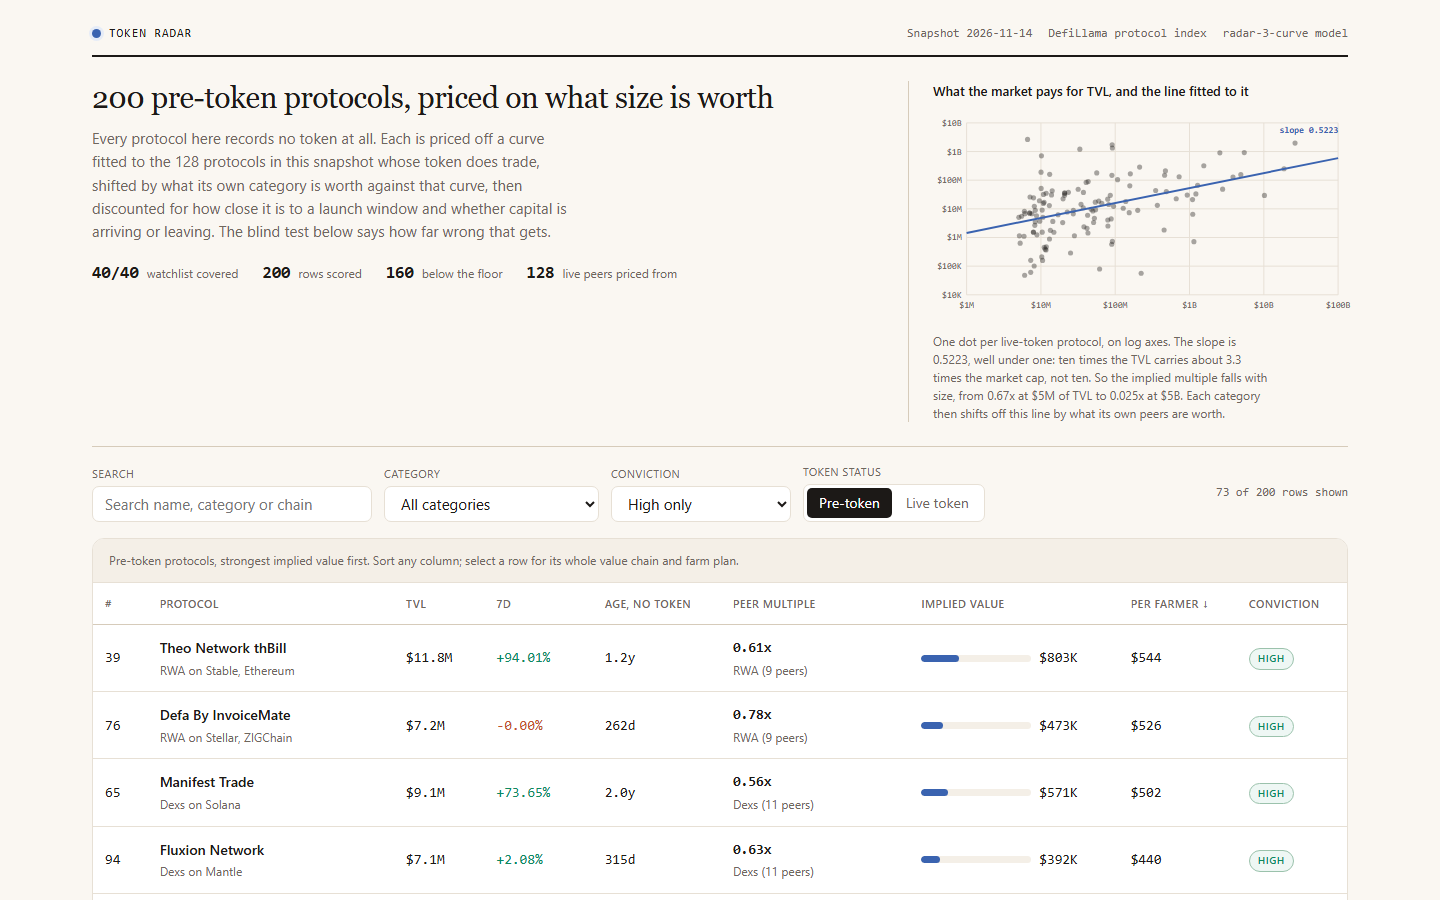
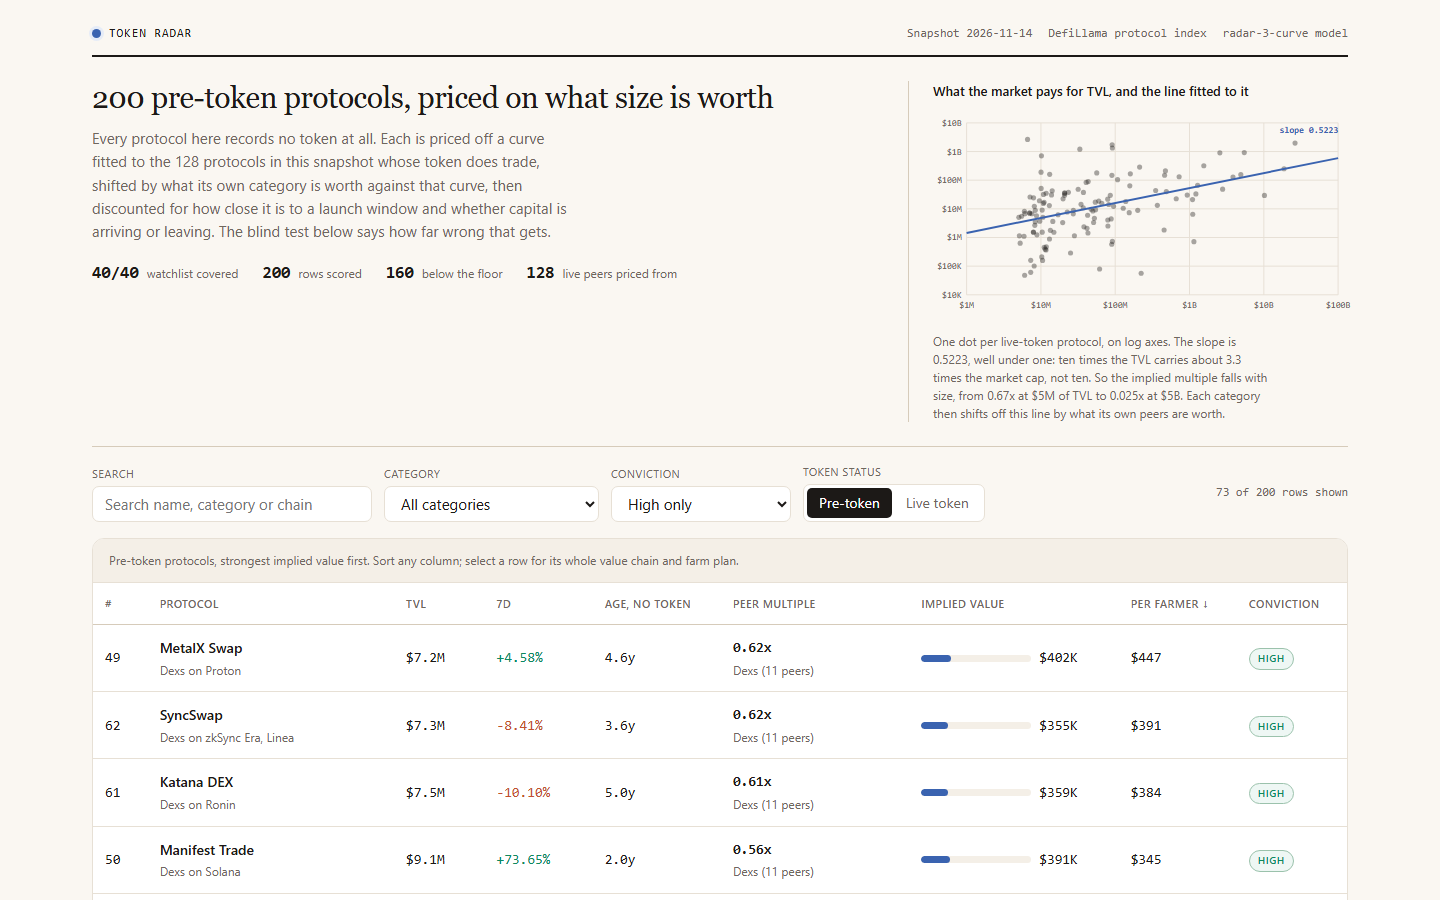
Measure the launch curve instead of drawing it
launchTiming was a hand-drawn hump that decayed past 900 days, on the
intuition that a protocol running that long without a token never will.
The snapshot can check that, and it says the opposite: 31% of protocols
aged one to one and a half years carry a token, against 79% of those
aged three to four. The shape was pointing the wrong way and nothing but
a guess had put it there.

It is now read off nine age cohorts counted over the 645 protocols that
record a listing date, scaled so the heaviest cohort weighs one. The
board reorders accordingly: older pre-token protocols now carry more
weight, not less.

A ranking test also ran (ordering, not level, since the board is a
ranking). Among the live-token protocols the category offsets improve
Spearman against the market's own ordering by 0.0024, and win 49.8% of
the pairs the two orderings disagree on: a coin flip. The curve is
monotonic in TVL so it cannot reorder anything by itself, which means
the board's ordering comes from farmerShare, launchTiming and momentum.
One of those three is now measured.

diff --git a/lib/model.ts b/lib/model.ts
@@ -5,31 +5,38 @@
 // entry records no token at all (no market cap, no CoinGecko id, no symbol); protocols whose token already
 // trades are kept apart and shown at the market's own valuation, never mixed into the ranked board.
 //
-// WHAT THE VALUE MODEL DOES DIFFERENTLY
+// WHAT THE MODEL DOES, AND WHAT THE SNAPSHOT SAYS ABOUT IT
 //
-// A board whose value is `TVL x a constant` is a TVL table with extra columns: TVL spans four orders of
-// magnitude here, so any constant multiple reproduces the TVL order exactly. This model prices each
-// protocol against its OWN CATEGORY's live-token peers, read out of the same snapshot:
+// Nothing here is asserted that the snapshot can check. 128 of its protocols already have a token and
+// record a market cap, so each is a question this model can be marked on: hide it from its own peer
+// set, price it from its TVL and category alone, and compare. tools/backtest.mjs runs that over all
+// 128, leave-one-out, and the dashboard carries the result.
 //
-//   peerMultiple(category) = median(mcap_usd / tvl_usd) over the snapshot's live-token protocols in that
-//                            category, shrunk toward the global median by peer count.
+// That test rewrote this file twice.
 //
-// In this snapshot those medians run from 0.04x (Liquid Staking) to 1.22x (Cross Chain Bridge), a 30-fold
-// spread around a 0.214x global median, so a Bridge and a Liquid Staking protocol of equal TVL are priced
-// thirty times apart. Nothing is hardcoded per protocol: the multiples are computed from the file.
+//   1. The first model priced by category alone: the median mcap/TVL of a protocol's own category,
+//      shrunk toward the global median. The category spread it was built on is real, 0.04x to 1.22x.
+//      On the blind test it landed inside a factor of two 21.1% of the time, against 28.1% for one
+//      flat constant: WORSE than the baseline it was meant to beat.
 //
-//   impliedValue = tvl_usd                        the capital the protocol actually holds
-//                x peerMultiple(category)         what the market pays per dollar of TVL, in its category
-//                x farmerShare(tvl_usd)           the slice an early-user distribution hands to farmers
-//                x launchTiming(ageDays)          how close it is to the window where tokens actually ship
-//                x momentum(change_7d)            whether the capital is arriving or leaving
+//   2. What the variance actually belongs to is size. Least squares in log-log over the same 128
+//      gives log10(mcap) = a + b x log10(tvl) with b near 0.5, so market cap grows about as the
+//      square root of the TVL beneath it and the implied multiple falls from roughly 0.67x at $5M of
+//      TVL to 0.025x at $5B. Fitting that curve first and keeping the category only as a shift off it
+//      cuts the typical miss from 5.07x to 3.48x and beats the baseline on every measure.
 //
-// The last three are stated, bounded and the same function for every row. launchTiming is deliberately NOT
-// monotonic in age: a 60-day-old protocol is too young to ship, the 9-to-30-month band is where launches
-// cluster, and a protocol four years old with no token has told you something. The starter's model ramps
-// value up with age forever, which prices a 2021 protocol that never launched as its safest bet.
+//   impliedValue = 10^(a + b x log10(tvl) + categoryOffset)   what a launch has been worth at this size
+//                x farmerShare(tvl_usd)                       the slice early users are handed
+//                x launchTiming(ageDays)                      measured, see fitLaunchCurve below
+//                x momentum(change_7d)                        whether capital is arriving or leaving
 //
-// Every constant below is declared in the dashboard beside the number it moves.
+// launchTiming was a hand-drawn hump that decayed past 900 days, on the intuition that a protocol
+// running that long without a token never will. The snapshot disagrees: 31% of protocols aged one to
+// one and a half years carry a token, against 79% of those aged three to four. It is now read off
+// those cohorts instead.
+//
+// What is still only asserted: farmerShare and momentum. The snapshot records no distribution
+// history, so nothing here can mark them, and the dashboard says so rather than implying otherwise.
 
 // The farm plan lives in dashboard/farm.js, one classic script the page loads over file:// and this
 // module imports, so the plan board.json carries and the plan the dashboard draws are the same bytes
@@ -333,6 +340,8 @@ export interface RadarData {
   /** The size curve every price starts from, and how it did on the blind test. */
   curve: Curve;
   holdout: Holdout;
+  /** The launch curve, measured from the snapshot rather than drawn. */
+  launch: LaunchCurve;
   global_multiple: number;
   /** Live-token protocols the multiples were actually read from (not the Live tab's shown rows). */
   peer_protocols: number;
@@ -523,29 +532,77 @@ export function farmerShare(tvl: number, model: ModelConstants = MODEL): number 
   return model.share_small + (model.share_large - model.share_small) * t;
 }
 
+/** One age cohort: how many protocols that old the snapshot carries, and how many have a token. */
+export interface LaunchCohort {
+  up_to: number;
+  n: number;
+  launched: number;
+  share: number;
+}
+
+/** The measured launch curve, and what it was measured from. */
+export interface LaunchCurve {
+  cohorts: LaunchCohort[];
+  /** The highest cohort share, which the weighting is normalised against. */
+  peak: number;
+  /** Protocols carrying a listing date, out of the whole snapshot. */
+  dated: number;
+  total: number;
+}
+
+/** The cohort edges, in days since listing. Wide enough that no bucket is a handful of protocols. */
+const COHORT_EDGES = [90, 180, 270, 365, 545, 730, 1095, 1460, Infinity];
+
 /**
- * How close a protocol is to the window where tokens actually ship, from its days since listing.
+ * The launch curve, measured rather than drawn. Every protocol in the snapshot either has a token or
+ * does not, so the share that do, by age, is an observation and not an opinion.
  *
- * Not monotonic, and that is the point. Below `timing_cold` a protocol is too young to have a
- * distribution to farm; it ramps to full weight by `timing_open`, holds the plateau to `timing_close`,
- * then decays toward `timing_tail` by `timing_stale`: a protocol that has run four years without a token
- * is evidence against a launch, not for one.
+ * An earlier version of this model used a hand-drawn hump that rose to a plateau and then decayed
+ * past about 900 days, on the reasoning that a protocol which has run that long without a token has
+ * told you it never will. The snapshot says the opposite: 31% of protocols aged one to one and a half
+ * years carry a token, against 79% of those aged three to four. Whatever else is true, the old shape
+ * pointed the wrong way, and nothing but intuition had put it there.
+ *
+ * Read it honestly. These are cohorts seen at one moment, not one cohort followed through time, so
+ * era effects are mixed in: a protocol listed in 2021 lived through different conditions than one
+ * listed last year. And listed_at is the day DefiLlama began tracking a protocol, which for some is
+ * near their token launch and for others years before it. What this measures is an association
+ * between age and having launched, which is the most the snapshot can honestly support.
  */
-export function launchTiming(age: number | null, model: ModelConstants = MODEL): number {
+export function fitLaunchCurve(snapshot: Snapshot): LaunchCurve {
+  const dated = snapshot.protocols
+    .map((p) => ({ p, age: ageDays(snapshot.as_of, p.listed_at) }))
+    .filter((x): x is { p: SnapshotProtocol; age: number } => x.age !== null);
+
+  const cohorts: LaunchCohort[] = [];
+  let low = 0;
+  for (const edge of COHORT_EDGES) {
+    const inBucket = dated.filter((x) => x.age >= low && x.age < edge);
+    if (inBucket.length > 0) {
+      const launched = inBucket.filter((x) => !isPreToken(x.p)).length;
+      cohorts.push({
+        up_to: edge === Infinity ? 99_999 : edge,
+        n: inBucket.length,
+        launched,
+        share: round4(launched / inBucket.length),
+      });
+    }
+    low = edge;
+  }
+  const peak = cohorts.reduce((m, c) => Math.max(m, c.share), 0) || 1;
+  return { cohorts, peak: round4(peak), dated: dated.length, total: snapshot.protocols.length };
+}
+
+/**
+ * How strongly a protocol's age argues that a launch is near: the share of protocols its own age that
+ * already carry a token, read off the measured curve and scaled so the heaviest cohort weighs one. A
+ * protocol with no listing date takes the weight of unknown_age_days.
+ */
+export function launchTiming(age: number | null, model: ModelConstants = MODEL, curve?: LaunchCurve): number {
+  if (curve === undefined || curve.cohorts.length === 0) return 1;
   const d = age ?? model.unknown_age_days;
-  if (d <= 0) return model.timing_min;
-  if (d < model.timing_cold) {
-    return model.timing_min + (1 - model.timing_min) * (d / model.timing_cold) * 0.6;
-  }
-  if (d < model.timing_open) {
-    const t = (d - model.timing_cold) / (model.timing_open - model.timing_cold);
-    const start = model.timing_min + (1 - model.timing_min) * 0.6;
-    return start + (1 - start) * t;
-  }
-  if (d <= model.timing_close) return 1;
-  if (d >= model.timing_stale) return model.timing_tail;
-  const t = (d - model.timing_close) / (model.timing_stale - model.timing_close);
-  return 1 - (1 - model.timing_tail) * t;
+  const hit = curve.cohorts.find((c) => d < c.up_to) ?? curve.cohorts[curve.cohorts.length - 1]!;
+  return clamp(hit.share / curve.peak, model.timing_min, 1);
 }
 
 /**
@@ -586,12 +643,12 @@ export interface Scored {
 }
 
 /** The implied value of one protocol's unlaunched token, and every factor behind it. */
-export function score(p: SnapshotProtocol, asOf: string, valuation: Valuation, model: ModelConstants = MODEL): Scored {
+export function score(p: SnapshotProtocol, asOf: string, valuation: Valuation, model: ModelConstants = MODEL, launch?: LaunchCurve): Scored {
   const age = ageDays(asOf, p.listed_at);
   const quote = valuation.quote(p.category, p.tvl_usd);
   const fdv = p.tvl_usd * quote.multiple;
   const share = farmerShare(p.tvl_usd, model);
-  const timing = launchTiming(age, model);
+  const timing = launchTiming(age, model, launch);
   const { multiplier: momentumMult, growthPct } = momentum(p.change_7d, model);
   const implied = Math.max(1, Math.round(fdv * share * timing * momentumMult));
   const farmers = Math.max(model.farmers_floor, Math.round(p.tvl_usd / model.farmer_position_usd));
@@ -674,7 +731,7 @@ function bySlug(protocols: SnapshotProtocol[]): Map<string, SnapshotProtocol> {
 }
 
 /** The protocols the board ranks, strongest first, with ranks 1..n. */
-export function buildBoard(snapshot: Snapshot, model: ModelConstants = MODEL, valuation = new Valuation(snapshot, model)): BoardRow[] {
+export function buildBoard(snapshot: Snapshot, model: ModelConstants = MODEL, valuation = new Valuation(snapshot, model), launch: LaunchCurve = fitLaunchCurve(snapshot)): BoardRow[] {
   const index = bySlug(snapshot.protocols);
   const chosen = new Map<string, SnapshotProtocol>();
   // The watchlist is the floor: every slug it names, so the gate's coverage row is never gambled on.
@@ -690,7 +747,7 @@ export function buildBoard(snapshot: Snapshot, model: ModelConstants = MODEL, va
     .slice(0, EARLY_ROWS);
   for (const p of early) chosen.set(p.slug, p);
 
-  const scored = [...chosen.values()].map((p) => ({ p, s: score(p, snapshot.as_of, valuation, model) }));
+  const scored = [...chosen.values()].map((p) => ({ p, s: score(p, snapshot.as_of, valuation, model, launch) }));
   scored.sort((a, b) => b.s.implied - a.s.implied || (a.p.slug < b.p.slug ? -1 : a.p.slug > b.p.slug ? 1 : 0));
 
   return scored.map(({ p, s }, i) => ({
@@ -784,7 +841,8 @@ export function radarRow(row: BoardRow): RadarRow {
 /** Everything the dashboard renders, from the snapshot. */
 export function buildRadar(snapshot: Snapshot, model: ModelConstants = MODEL): { board: BoardRow[]; radar: RadarData } {
   const valuation = new Valuation(snapshot, model);
-  const board = buildBoard(snapshot, model, valuation);
+  const launch = fitLaunchCurve(snapshot);
+  const board = buildBoard(snapshot, model, valuation, launch);
   const live = liveRows(snapshot);
   const watchlist = new Set(snapshot.watchlist);
   const early = board.filter((r) => !watchlist.has(r.slug)).length;
@@ -811,6 +869,7 @@ export function buildRadar(snapshot: Snapshot, model: ModelConstants = MODEL): {
     model_version: MODEL_VERSION,
     curve: valuation.curve,
     holdout: validate(snapshot, model),
+    launch,
     global_multiple: round4(valuation.globalMultiple),
     peer_protocols: snapshot.protocols.filter(isQuotablePeer).length,
     watchlist_size: snapshot.watchlist.length,

diff --git a/dashboard/app.js b/dashboard/app.js
@@ -40,17 +40,15 @@
     var t = clamp((Math.log10(Math.max(tvl, 1)) - lo) / (hi - lo), 0, 1);
     return m.share_small + (m.share_large - m.share_small) * t;
   }
+  // Read off the measured launch curve, the same cohorts lib/model.ts counted.
   function launchTiming(age, m) {
+    var c = DATA.launch;
+    if (!c || !c.cohorts.length) return 1;
     var d = age === null || age === undefined ? m.unknown_age_days : age;
-    if (d <= 0) return m.timing_min;
-    if (d < m.timing_cold) return m.timing_min + (1 - m.timing_min) * (d / m.timing_cold) * 0.6;
-    if (d < m.timing_open) {
-      var start = m.timing_min + (1 - m.timing_min) * 0.6;
-      return start + (1 - start) * ((d - m.timing_cold) / (m.timing_open - m.timing_cold));
-    }
-    if (d <= m.timing_close) return 1;
-    if (d >= m.timing_stale) return m.timing_tail;
-    return 1 - (1 - m.timing_tail) * ((d - m.timing_close) / (m.timing_stale - m.timing_close));
+    var hit = null;
+    for (var i = 0; i < c.cohorts.length; i++) { if (d < c.cohorts[i].up_to) { hit = c.cohorts[i]; break; } }
+    if (hit === null) hit = c.cohorts[c.cohorts.length - 1];
+    return clamp(hit.share / c.peak, m.timing_min, 1);
   }
   function momentumOf(change7d, m) {
     var g = clamp(change7d === null || change7d === undefined ? 0 : change7d, m.growth_floor, m.growth_cap);
@@ -453,7 +451,7 @@ function modelPanel() {
         el('div', null, el('dt', { text: 'sizeCurve' }), el('dd', { text: 'Least squares through the ' + DATA.curve.points + ' live-token protocols in log-log: log10(mcap) = ' + DATA.curve.a + ' + ' + DATA.curve.b + ' x log10(tvl). A slope under one says market cap grows slower than the TVL beneath it, so the implied multiple falls as a protocol gets bigger. This line does most of the work; a category only shifts it.' })),
         el('div', null, el('dt', { text: 'categoryOffset' }), el('dd', { text: 'The median amount a category of live-token peers sits above or below that line, in log10, shrunk toward no shift at all by peer count (k = ' + m.peer_shrinkage + ', a set needs ' + m.peer_min + ' peers to count). Both knobs were picked on the blind test above rather than by taste.' })),
         el('div', null, el('dt', { text: 'farmerShare' }), el('dd', { text: 'The slice of a launch an early-user distribution hands to farmers: ' + (m.share_small * 100).toFixed(1) + '% at $' + Math.round(m.share_tvl_small / 1e6) + 'M of TVL falling to ' + (m.share_large * 100).toFixed(1) + '% at $' + Math.round(m.share_tvl_large / 1e9) + 'B, interpolated on a log scale. A bigger protocol spreads its distribution over more claimants.' })),
-        el('div', null, el('dt', { text: 'launchTiming' }), el('dd', { text: 'How close the protocol is to the window where tokens actually ship, from days since listing. Deliberately not monotonic: it ramps from ' + m.timing_min + ' below ' + m.timing_cold + ' days, holds full weight from ' + m.timing_open + ' to ' + m.timing_close + ' days, then decays to ' + m.timing_tail + ' by ' + m.timing_stale + '. A protocol that has run that long with no token is evidence against a launch, not for one.' })),
+        el('div', null, el('dt', { text: 'launchTiming' }), el('dd', { text: 'Measured, not drawn: the share of protocols the same age that already carry a token, read off ' + DATA.launch.cohorts.length + ' age cohorts counted over the ' + DATA.launch.dated + ' protocols here that record a listing date, scaled so the heaviest cohort weighs one. It runs from ' + Math.round(Math.min.apply(null, DATA.launch.cohorts.map(function (c) { return c.share; })) * 100) + '% to ' + Math.round(DATA.launch.peak * 100) + '%. An earlier version of this model used a hand-drawn hump that decayed past 900 days, on the idea that a protocol running that long without a token never will; these cohorts say the opposite, so it went. They are cohorts seen at one moment rather than one followed through time, and listed_at is when DefiLlama began tracking a protocol, not when it was born.' })),
         el('div', null, el('dt', { text: 'momentum' }), el('dd', { text: 'Whether capital is arriving or leaving, from the seven-day TVL change clamped to ' + m.growth_floor + '%..' + m.growth_cap + '% and softened through tanh at scale ' + m.growth_scale + ', weight ' + m.growth_weight + ', so one violent week cannot carry a row.' })),
         el('div', null, el('dt', { text: 'Per farmer' }), el('dd', { text: 'The implied pool split between tvl_usd / $' + m.farmer_position_usd.toLocaleString('en-US') + ' assumed farmers, never fewer than ' + m.farmers_floor + '. It is the number a reader with one wallet should actually read.' }))
       ),
@@ -500,7 +498,12 @@ function modelPanel() {
         chainRow('x Category offset', (row.peer_offset >= 0 ? 'x' : 'x') + Math.pow(10, row.peer_offset).toFixed(2), row.peer_basis === 'global' ? 'none: too few live peers in its category or its family to measure one' : (row.peer_offset >= 0 ? 'above' : 'below') + ' the line, from ' + row.peer_count + ' live-token ' + (row.peer_basis === 'family' ? 'protocols in the ' + row.peer_category + ' family' : row.peer_category + ' protocols')),
         chainRow('= Expected launch value', fmtUsd(row.expected_fdv_usd), 'an effective ' + fmtMult(row.peer_multiple) + ' on its TVL, at this size'),
         chainRow('x Farmer share', (share * 100).toFixed(2) + '%', 'the slice an early-user distribution hands to farmers at this size'),
-        chainRow('x Launch timing', row.timing_multiplier.toFixed(3), fmtAge(row.age_days) + ' with no token' + (row.age_days === null ? '' : row.age_days < m.timing_cold ? ': too young to have a distribution yet' : row.age_days <= m.timing_close ? ': inside the window where launches cluster' : ': past the window, and discounted for it')),
+        chainRow('x Launch timing', row.timing_multiplier.toFixed(3), (function () {
+          var c = DATA.launch, d = row.age_days === null ? m.unknown_age_days : row.age_days, hit = null;
+          for (var i = 0; i < c.cohorts.length; i++) { if (d < c.cohorts[i].up_to) { hit = c.cohorts[i]; break; } }
+          if (hit === null) hit = c.cohorts[c.cohorts.length - 1];
+          return fmtAge(row.age_days) + ' with no token' + (row.age_days === null ? ', so it is scored at the ' + m.unknown_age_days + '-day cohort' : '') + ': of the ' + hit.n + ' protocols that old, ' + Math.round(hit.share * 100) + '% already carry one';
+        })()),
         chainRow('x Momentum', row.momentum_multiplier.toFixed(3), fmtPct(row.change_7d) + ' over seven days'),
         el('div', { class: 'chain-row total' },
           el('span', { text: '= Implied value' }),

diff --git a/README.md b/README.md
@@ -69,10 +69,26 @@ implied     = launchValue x farmerShare(tvl) x launchTiming(age) x momentum(chan
 Against the TVL ordering the starter model's Spearman correlation is **0.98** - effectively a TVL table.
 This model's is **0.53**: rows move a median of 43 places and up to 135.
 
-`launchTiming` is deliberately **not** monotonic in age. A protocol 60 days old has no distribution to
-farm yet; launches cluster between roughly 9 and 30 months; and a protocol four years old with no token
-is evidence against a launch, not for one. A model that raises value with age forever prices the
-protocol that never launched as its safest bet.
+## The test rewrote the model a second time
+
+`launchTiming` used to be a hand-drawn hump: rising to a plateau, then decaying past about 900 days, on
+the reasoning that a protocol running that long without a token has told you it never will. Nothing but
+intuition had put that shape there, and the snapshot can check it - every protocol in it either carries
+a token or does not, so the share that do, by age, is an observation:
+
+| Age since listing | n | Already have a token |
+| --- | --- | --- |
+| 0-90 d | 53 | 30.2% |
+| 365-545 d | 103 | 31.1% |
+| 730-1095 d | 139 | 54.7% |
+| 1095-1460 d | 89 | **78.6%** |
+| 1460+ d | 74 | **79.7%** |
+
+The curve was pointing the wrong way. It is now read off those cohorts instead of drawn.
+
+Read honestly: these are cohorts seen at one moment, not one cohort followed through time, so era
+effects are mixed in. And `listed_at` is the day DefiLlama began tracking a protocol, which for some is
+near their token launch and for others years before it.
 
 ## Farm plans that cost something
 
